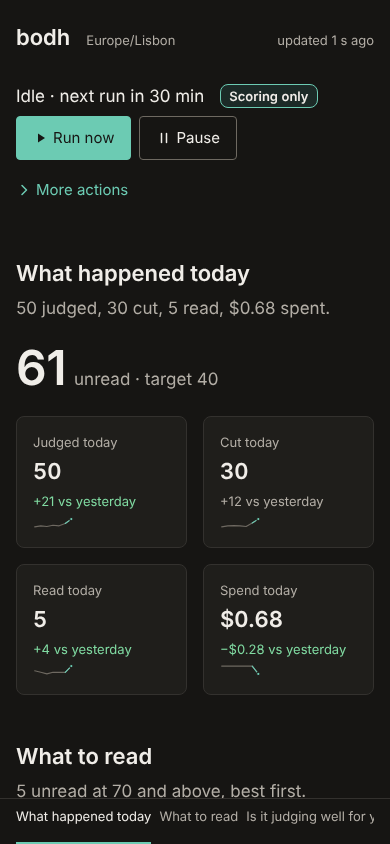
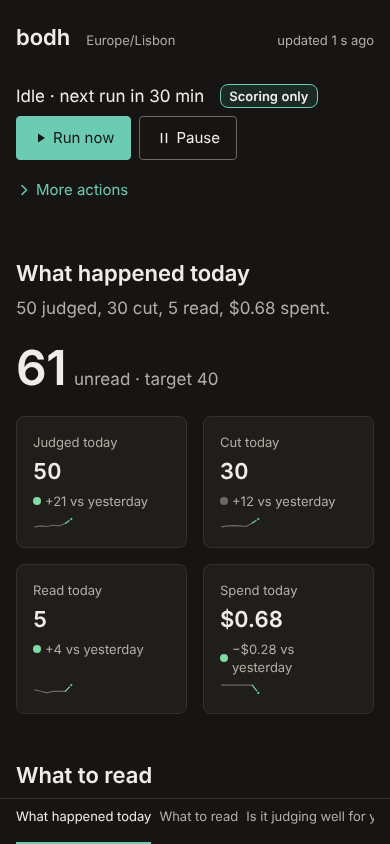
Zero axe violations: the delta's colour on a mark, links in prose underlined
axe-core 4.10 over every state, both themes, both widths, the menus open, found two things:
a stat tile's delta at 13 px in the status colour is under AA on the tile's surface (the
colour moves to a dot beside the text, the sign stays in the words), and a link inside the
learning lists was told apart by colour alone (underlined now, in the hairline colour). Nothing
else; the checklist in docs/design.md says so, and that the audit is run by hand until
axe-core is vendored.

Claude-Session: https://claude.ai/code/session_01NFBybHumrLwKpaSuccUjaV

diff --git a/src/bodh/web/dashboard.css b/src/bodh/web/dashboard.css
@@ -153,9 +153,10 @@
   .tile { padding: var(--space-3); border: 1px solid var(--line); border-radius: var(--radius-tile); background: var(--surface-2); display: flex; flex-direction: column; gap: var(--space-1); min-width: 0; }
   .tile .label { color: var(--text-secondary); font-size: var(--size-13); }
   .tile .value { font-size: var(--size-22); font-weight: var(--weight-semibold); font-variant-numeric: tabular-nums; }
-  .tile .delta { font-size: var(--size-13); color: var(--text-secondary); }
-  .tile .delta.up-good, .tile .delta.down-good { color: var(--good); }
-  .tile .delta.up-bad, .tile .delta.down-bad { color: var(--critical); }
+  .tile .delta { font-size: var(--size-13); color: var(--text-secondary); display: inline-flex; align-items: center; gap: var(--space-1); }
+  .tile .delta .mark { width: 8px; height: 8px; border-radius: 4px; background: var(--line-strong); flex: none; }
+  .tile .delta.up-good .mark, .tile .delta.down-good .mark { background: var(--good); }
+  .tile .delta.up-bad .mark, .tile .delta.down-bad .mark { background: var(--critical); }
   .tile .spark { margin-top: auto; display: block; width: 72px; height: 20px; }
   .spark .path { fill: none; stroke: var(--series-muted); stroke-width: 2; stroke-linejoin: round; stroke-linecap: round; }
   .spark .today { fill: var(--accent); stroke: var(--surface-2); stroke-width: 2; }
@@ -209,6 +210,7 @@
   .concept h3 { margin-bottom: var(--space-1); }
   .concept ul { margin: 0; padding-left: 1.1em; }
   .concept li { margin: 2px 0; }
+  .concept li a { text-decoration: underline; text-decoration-color: var(--line-strong); text-underline-offset: 3px; }
   .cloud { display: flex; flex-wrap: wrap; gap: var(--space-1) var(--space-3); align-items: baseline; max-width: var(--column-wide); }
   .cloud .frontier { text-decoration: underline; text-decoration-style: dotted; text-underline-offset: 3px; }
   .cloud .n { color: var(--text-muted); font-size: var(--size-13); margin-left: 2px; }

diff --git a/src/bodh/web/dashboard.js b/src/bodh/web/dashboard.js
@@ -100,8 +100,10 @@
       let d = el && $('.delta', el);
       if (!el) return;
       setText($('.value', el), tile.text);
-      if (!d && tile.delta_text) { d = document.createElement('span'); $('.value', el).after(d); }
-      if (d) { d.className = ('delta ' + (tile.direction || '')).trim(); setText(d, tile.delta_text); }
+      if (!d && tile.delta_text) { d = document.createElement('span'); d.append(document.createElement('i'), ''); $('.value', el).after(d); }
+      if (!d) return;
+      d.className = ('delta ' + (tile.direction || '')).trim(); d.firstElementChild.className = 'mark'; // the mark carries the colour
+      if (d.lastChild.data !== tile.delta_text) { d.lastChild.data = tile.delta_text; wash(d); }
     });
   }
   function applyChild(c) {

diff --git a/src/bodh/web/templates.py b/src/bodh/web/templates.py
@@ -152,7 +152,9 @@ def grades_grid(rows: list[tuple[str, list[int]]], grades: tuple[str, ...], capt
 
 
 def tile(label: str, value: str, delta: str = "", delta_class: str = "", spark: str = "") -> str:
-    d = f'<span class="delta {delta_class}">{esc(delta)}</span>' if delta else ""
+    """A stat tile. The delta's direction colours a mark beside the text, never the text (13 px
+    in a status colour does not reach AA on the tile's surface); the sign is in the words."""
+    d = f'<span class="delta {delta_class}"><i class="mark"></i>{esc(delta)}</span>' if delta else ""
     return (
         f'<div class="tile"><span class="label">{esc(label)}</span>'
         f'<span class="value num">{esc(value)}</span>{d}{spark}</div>'

diff --git a/docs/design.md b/docs/design.md
@@ -105,8 +105,8 @@ targets on the phone; the page reads in order without CSS. The checklist for the
 
 | Check | State |
 | --- | --- |
-| Contrast: text AA, lines and icons 3:1 | the tokens pass (report below) |
-| Keyboard: reading order equals focus order, Enter and Space operate everything | checked per panel by the keyboard test |
+| Contrast: text AA, lines and icons 3:1 | the tokens pass (report below); axe-core 4.10 finds no violation at WCAG 2.1 AA (and its best-practice rules) in any state, light or dark, 390 or 1280 px, the menus open; a stat tile's delta colours a mark beside its text, not the text, since 13 px in a status colour on the tile's surface is under 4.5:1 |
+| Keyboard: reading order equals focus order, Enter and Space operate everything | `tests/visual/test_keyboard_order_follows_the_reading_order`: the Tab order descends the page, a list row counted as one unit (its verdict menu sits top right and follows its content); every lever, filter, header, chart mark and toggle is reached |
 | Touch targets 44 px on the phone | rows, buttons and tabs at 44 px under 768 px |
 | Screen reader: VoiceOver on macOS, NVDA on Windows | to be checked by a person before 1.0 (owner's live checks) |
 
@@ -114,7 +114,12 @@ targets on the phone; the page reads in order without CSS. The checklist for the
 
 `scripts/screenshots.py` renders the page and the style guide from the seeded fixture with
 Playwright, light and dark, 390 and 1280 px, into `docs/images/`; the README's pictures come
-from there and are never stale.
+from there and are never stale. The visual tests (`tests/visual/`, `BODH_BROWSER=1`) keep the
+first screen of every state at 390, 768 and 1280 px, light and dark, Reduce Motion on, under
+`tests/visual/baseline/` and fail at 0.1 % of pixels changed; the whole page and the style
+guide once. axe-core is not vendored yet (550 KB of JavaScript, or a package): the audit above
+was run by hand with Playwright and is to be wired into the browser tests once that choice is
+made.
 
 ## The palette report
 
